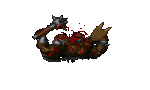
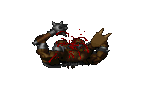
Corrected image sprite positioning, shadows are now center to entity position atribute

Changed region(s): [[0.2133, 0.1556, 0.7467, 0.7778], [0.56, 0.2667, 0.5867, 0.2889], [0.5067, 0.2444, 0.5333, 0.2667]]

diff --git a/entities/characters/ettin.py b/entities/characters/ettin.py
@@ -30,20 +30,21 @@ class Ettin(pygame.sprite.Sprite):
         #Pain assets
         self.character_pain_timer = 0
 
-        self.sprite_position = position
+        self.position = position
+        self.sprite_position = position[0], position[1]+12
         self.id = util.generate_entity_id()
 
         #Owned sprites
-        self.monster_collision_shadow= shadow.Shadow(self.sprite_position, self.id, SIZE_MEDIUM_SMALL, True)
-        self.melee_collision_shadow  = shadow.Shadow(self.sprite_position, self.id, SIZE_MEDIUM, False)
-        self.monster_melee_e_sector  = melee_range.Melee((self.sprite_position[0],self.sprite_position[1]-50), SECTOR_E)
-        self.monster_melee_ne_sector = melee_range.Melee(self.sprite_position, SECTOR_NE)
-        self.monster_melee_n_sector  = melee_range.Melee(self.sprite_position, SECTOR_N)
-        self.monster_melee_nw_sector = melee_range.Melee(self.sprite_position, SECTOR_NW)
-        self.monster_melee_w_sector  = melee_range.Melee(self.sprite_position, SECTOR_W)
-        self.monster_melee_sw_sector = melee_range.Melee(self.sprite_position, SECTOR_SW)
-        self.monster_melee_s_sector  = melee_range.Melee(self.sprite_position, SECTOR_S)
-        self.monster_melee_se_sector = melee_range.Melee(self.sprite_position, SECTOR_SE)
+        self.monster_collision_shadow= shadow.Shadow(self.position, self.id, SIZE_MEDIUM_SMALL, True)
+        self.melee_collision_shadow  = shadow.Shadow(self.position, self.id, SIZE_MEDIUM, False)
+        self.monster_melee_e_sector  = melee_range.Melee(self.position, SECTOR_E)
+        self.monster_melee_ne_sector = melee_range.Melee(self.position, SECTOR_NE)
+        self.monster_melee_n_sector  = melee_range.Melee(self.position, SECTOR_N)
+        self.monster_melee_nw_sector = melee_range.Melee(self.position, SECTOR_NW)
+        self.monster_melee_w_sector  = melee_range.Melee(self.position, SECTOR_W)
+        self.monster_melee_sw_sector = melee_range.Melee(self.position, SECTOR_SW)
+        self.monster_melee_s_sector  = melee_range.Melee(self.position, SECTOR_S)
+        self.monster_melee_se_sector = melee_range.Melee(self.position, SECTOR_SE)
         self.monster_melee_sprites = [self.monster_melee_e_sector,self.monster_melee_ne_sector,self.monster_melee_n_sector,self.monster_melee_nw_sector,self.monster_melee_w_sector,self.monster_melee_sw_sector,self.monster_melee_s_sector,self.monster_melee_se_sector]
         self.monster_auxilary_sprites = [self.monster_collision_shadow,self.melee_collision_shadow]
 
@@ -103,11 +104,12 @@ class Ettin(pygame.sprite.Sprite):
                 self.monster_ai.increment_direction_change_decision_timer()
             else:
                 self.facing_direction = self.monster_ai.player_direction_sector
-        self.sprite_position = self.sprite_position[0]-vector[0]+self.walk_speed_vector[0],self.sprite_position[1] - vector[1] +self.walk_speed_vector[1]
+        self.position = self.position[0]-vector[0]+self.walk_speed_vector[0],self.position[1] - vector[1] +self.walk_speed_vector[1]
         for auxilary_sprite in self.monster_auxilary_sprites:
-            auxilary_sprite.sprite_position = self.sprite_position[0], self.sprite_position[1]-3
+            auxilary_sprite.position = self.position
         for melee_sprite  in self.monster_melee_sprites:
-            melee_sprite.sprite_position = self.sprite_position[0], self.sprite_position[1]-12
+            melee_sprite.position = self.position
+        self.sprite_position = self.position[0], self.position[1]+12
         self.rect = self.image.get_rect(midbottom = (self.sprite_position))
     
     def set_facing_direction(self):
@@ -201,19 +203,19 @@ class Ettin(pygame.sprite.Sprite):
             if self.facing_direction == SECTOR_E:
                 self.walk_speed_vector = 1.4,0
             elif self.facing_direction == SECTOR_NE:
-                self.walk_speed_vector = 1,-1
+                self.walk_speed_vector = 0.99,-0.58
             elif self.facing_direction == SECTOR_N:
-                self.walk_speed_vector = 0,-1.4
+                self.walk_speed_vector = 0,-0.77
             elif self.facing_direction == SECTOR_NW:
-                self.walk_speed_vector = -1,-1
+                self.walk_speed_vector = -0.99,-0.58
             elif self.facing_direction == SECTOR_W:
                 self.walk_speed_vector = -1.4,0
             elif self.facing_direction == SECTOR_SW:
-                self.walk_speed_vector = -1,1
+                self.walk_speed_vector = -0.99,0.58
             elif self.facing_direction == SECTOR_S:
-                self.walk_speed_vector = 0,1.4
+                self.walk_speed_vector = 0,0.77
             elif self.facing_direction == SECTOR_SE:
-                self.walk_speed_vector = 1,1
+                self.walk_speed_vector = 0.99,0.58
             
     #Combat functions
     def take_damage(self, damage):

diff --git a/main.py b/main.py
@@ -11,45 +11,54 @@ clock = pygame.time.Clock()
 entity_manager.generate_monsters()
 
 def get_player_wsad_input(keys):
-    if keys[pygame.K_s] and game_manager.acceleration_vector[Y] < 30:
+    if keys[pygame.K_s] and game_manager.acceleration_vector[Y] < 30.0:
         game_manager.acceleration_vector = game_manager.acceleration_vector[X],game_manager.acceleration_vector[Y]+1
 
     if not keys[pygame.K_s] and game_manager.acceleration_vector[Y] > 0:
         game_manager.acceleration_vector = game_manager.acceleration_vector[X],0
     
-    if keys[pygame.K_w] and game_manager.acceleration_vector[Y] > -30:
+    if keys[pygame.K_w] and game_manager.acceleration_vector[Y] > -30.0:
         game_manager.acceleration_vector = game_manager.acceleration_vector[X],game_manager.acceleration_vector[Y]-1
 
     if not keys[pygame.K_w] and game_manager.acceleration_vector[Y] < 0:
         game_manager.acceleration_vector = game_manager.acceleration_vector[X],0
 
-    if keys[pygame.K_a] and game_manager.acceleration_vector[X] > -30:
+    if keys[pygame.K_a] and game_manager.acceleration_vector[X] > -30.0:
         game_manager.acceleration_vector = game_manager.acceleration_vector[X]-1,game_manager.acceleration_vector[1]
 
     if not keys[pygame.K_a] and game_manager.acceleration_vector[X] < 0:
         game_manager.acceleration_vector = 0,game_manager.acceleration_vector[Y]
     
-    if keys[pygame.K_d] and game_manager.acceleration_vector[X] < 30:
+    if keys[pygame.K_d] and game_manager.acceleration_vector[X] < 30.0:
         game_manager.acceleration_vector = game_manager.acceleration_vector[X]+1,game_manager.acceleration_vector[Y]
 
     if not keys[pygame.K_d] and game_manager.acceleration_vector[X] > 0:
         game_manager.acceleration_vector = 0,game_manager.acceleration_vector[Y]
 
-    if game_manager.acceleration_vector[X] > 21 and game_manager.acceleration_vector[Y] > 21:
-        game_manager.acceleration_vector = 21,21
-    elif game_manager.acceleration_vector[X] > 21 and game_manager.acceleration_vector[Y] < -21:
-        game_manager.acceleration_vector = 21,-21
-    elif game_manager.acceleration_vector[X] < -21 and game_manager.acceleration_vector[Y] > 21:
-        game_manager.acceleration_vector = -21,21
-    elif game_manager.acceleration_vector[X] < -21 and game_manager.acceleration_vector[Y] < -21:
-        game_manager.acceleration_vector = -21,-21
+    if game_manager.acceleration_vector[X] > 21.2 and game_manager.acceleration_vector[Y] > 22.54:
+        game_manager.acceleration_vector = 21.2,22.54
+    elif game_manager.acceleration_vector[X] > 21.2 and game_manager.acceleration_vector[Y] < -22.54:
+        game_manager.acceleration_vector = 21.2,-22.54
+    elif game_manager.acceleration_vector[X] < -21.2 and game_manager.acceleration_vector[Y] > 22.54:
+        game_manager.acceleration_vector = -21.2,22.54
+    elif game_manager.acceleration_vector[X] < -21.2 and game_manager.acceleration_vector[Y] < -22.54:
+        game_manager.acceleration_vector = -21.2,-22.54
 
-    game_manager.speed_vector = game_manager.acceleration_vector[X]/10, game_manager.acceleration_vector[Y]/10
+    if game_manager.acceleration_vector[X] > 30.0:
+        game_manager.acceleration_vector = 30.0, game_manager.acceleration_vector[Y]
+    elif game_manager.acceleration_vector[X] < -30.0:
+        game_manager.acceleration_vector = -30.0, game_manager.acceleration_vector[Y]
+    if game_manager.acceleration_vector[Y] > 30.0:
+        game_manager.acceleration_vector = game_manager.acceleration_vector[X], 30.0
+    elif game_manager.acceleration_vector[Y] < -30.0:
+        game_manager.acceleration_vector = game_manager.acceleration_vector[X], -30.0
+
+    game_manager.speed_vector = (game_manager.acceleration_vector[X]/30)*game_manager.player_speed, (game_manager.acceleration_vector[Y]/30)*game_manager.player_speed*0.55
 
 def order_sprites():
     for _ in range(len(entity_manager.all_entities)-1):
         for j in range(len(entity_manager.all_entities)-1):
-            if entity_manager.all_entities[j].sprites()[0].sprite_position[Y] > entity_manager.all_entities[j+1].sprites()[0].sprite_position[Y]:
+            if entity_manager.all_entities[j].sprites()[0].position[Y] > entity_manager.all_entities[j+1].sprites()[0].position[Y]:
                     entity_manager.all_entities[j], entity_manager.all_entities[j+1] = entity_manager.all_entities[j+1], entity_manager.all_entities[j]
 
 def collision_detection():

diff --git a/utilities/monster_ai.py b/utilities/monster_ai.py
@@ -69,7 +69,7 @@ class Ai():
             if decision == 0:
                 self.owning_monster.facing_direction = random.choice(SECTORS)
             else:
-                self.owning_monster.facing_direction = util.get_facing_direction(self.owning_monster.sprite_position,PLAYER_POSITION)
+                self.owning_monster.facing_direction = util.get_facing_direction(self.owning_monster.position,PLAYER_POSITION)
         
         elif self.avoiding_obstacle == True and self.avoidance_direction_sector == None:
             self.change_to_parallel_direction()
@@ -79,16 +79,16 @@ class Ai():
             self.diagonal_avoidance = True
 
         elif self.final_approach == False:
-            self.owning_monster.facing_direction = util.get_facing_direction(self.owning_monster.sprite_position,PLAYER_POSITION)
+            self.owning_monster.facing_direction = util.get_facing_direction(self.owning_monster.position,PLAYER_POSITION)
             self.final_approach = True
         else:
             self.finish_avoiding_obstacle()
 
     def change_to_parallel_direction(self):
             if self.obstacle_sector == SECTOR_N or self.obstacle_sector == SECTOR_S:
-                self.set_avoidance_direction_sector(self.owning_monster.sprite_position, HORIZONTAL)
+                self.set_avoidance_direction_sector(self.owning_monster.position, HORIZONTAL)
             else:
-                self.set_avoidance_direction_sector(self.owning_monster.sprite_position, VERTICAL)
+                self.set_avoidance_direction_sector(self.owning_monster.position, VERTICAL)
             self.owning_monster.facing_direction = self.avoidance_direction_sector
             self.direction_change_decision_timer_limit = 6
 
@@ -120,7 +120,7 @@ class Ai():
     #Combat decisions
     def monster_can_melee_attack_player(self):
         if unique_player_objects.HERO.living == True:
-            self.player_direction_sector = util.get_facing_direction(self.owning_monster.sprite_position,PLAYER_POSITION)
+            self.player_direction_sector = util.get_facing_direction(self.owning_monster.position,PLAYER_POSITION)
             for melee_sprite in self.owning_monster.monster_melee_sprites:
                 if pygame.sprite.collide_mask(melee_sprite, unique_player_objects.PLAYER_SHADOW_SPRITE):
                     return True

diff --git a/entities/characters/unique_player_objects.py b/entities/characters/unique_player_objects.py
@@ -4,15 +4,15 @@ from entities import shadow
 from entities.characters import player
 from utilities.constants import *
 
-PLAYER_MELEE_SPRITE_E  = melee_range.Melee((PLAYER_POSITION[0],PLAYER_POSITION[1]+3), SECTOR_E)
-PLAYER_MELEE_SPRITE_NE = melee_range.Melee((PLAYER_POSITION[0],PLAYER_POSITION[1]+3), SECTOR_NE)
-PLAYER_MELEE_SPRITE_N  = melee_range.Melee((PLAYER_POSITION[0],PLAYER_POSITION[1]+3), SECTOR_N)
-PLAYER_MELEE_SPRITE_NW = melee_range.Melee((PLAYER_POSITION[0],PLAYER_POSITION[1]+3), SECTOR_NW)
-PLAYER_MELEE_SPRITE_W  = melee_range.Melee((PLAYER_POSITION[0],PLAYER_POSITION[1]+3), SECTOR_W)
-PLAYER_MELEE_SPRITE_SW = melee_range.Melee((PLAYER_POSITION[0],PLAYER_POSITION[1]+3), SECTOR_SW)
-PLAYER_MELEE_SPRITE_S  = melee_range.Melee((PLAYER_POSITION[0],PLAYER_POSITION[1]+3), SECTOR_S)
-PLAYER_MELEE_SPRITE_SE = melee_range.Melee((PLAYER_POSITION[0],PLAYER_POSITION[1]+3), SECTOR_SE)
-PLAYER_SHADOW_SPRITE   = shadow.Shadow((PLAYER_POSITION[0],PLAYER_POSITION[1]+3), PLAYER_SHADOW_ID, SIZE_SMALL, True)
+PLAYER_MELEE_SPRITE_E  = melee_range.Melee(PLAYER_POSITION, SECTOR_E)
+PLAYER_MELEE_SPRITE_NE = melee_range.Melee(PLAYER_POSITION, SECTOR_NE)
+PLAYER_MELEE_SPRITE_N  = melee_range.Melee(PLAYER_POSITION, SECTOR_N)
+PLAYER_MELEE_SPRITE_NW = melee_range.Melee(PLAYER_POSITION, SECTOR_NW)
+PLAYER_MELEE_SPRITE_W  = melee_range.Melee(PLAYER_POSITION, SECTOR_W)
+PLAYER_MELEE_SPRITE_SW = melee_range.Melee(PLAYER_POSITION, SECTOR_SW)
+PLAYER_MELEE_SPRITE_S  = melee_range.Melee(PLAYER_POSITION, SECTOR_S)
+PLAYER_MELEE_SPRITE_SE = melee_range.Melee(PLAYER_POSITION, SECTOR_SE)
+PLAYER_SHADOW_SPRITE   = shadow.Shadow(PLAYER_POSITION, PLAYER_SHADOW_ID, SIZE_SMALL, True)
 
 PLAYER_MELEE_SPRITES = [PLAYER_MELEE_SPRITE_E,PLAYER_MELEE_SPRITE_NE,PLAYER_MELEE_SPRITE_N,PLAYER_MELEE_SPRITE_NW,PLAYER_MELEE_SPRITE_W,PLAYER_MELEE_SPRITE_SW,PLAYER_MELEE_SPRITE_S,PLAYER_MELEE_SPRITE_SE]
 

diff --git a/entities/shadow.py b/entities/shadow.py
@@ -8,30 +8,19 @@ class Shadow(pygame.sprite.Sprite):
 
         self.visible = visible
         self.shadow_size = size
-        self.sprite_position = position
+        self.position = position
         self.id = id
 
         self.image = self.get_self_image()
-        self.rect = self.image.get_rect(midbottom = (self.sprite_position))
+        self.rect = self.image.get_rect(center = (self.position))
         self.mask = self.get_self_mask()
 
     #Update functions    
     def update(self):
-        if self.shadow_size == constants.SIZE_SMALL:
-            self.rect = self.image.get_rect(midbottom = (self.sprite_position))
-        elif self.shadow_size == constants.SIZE_MEDIUM_SMALL:
-            medium_shadow_sprite_position = self.get_shadow_position()
-            self.rect = self.image.get_rect(midbottom = (medium_shadow_sprite_position))
-        elif self.shadow_size == constants.SIZE_MEDIUM:
-            medium_shadow_sprite_position = self.get_shadow_position()
-            self.rect = self.image.get_rect(midbottom = (medium_shadow_sprite_position))
+        self.rect = self.image.get_rect(center = (self.position))
 
     def update_position(self, vector):
-        self.sprite_position = self.sprite_position[0] - vector[0], self.sprite_position[1] - vector[1]
-
-    def get_shadow_position(self):
-        medium_shadow_sprite_position = self.sprite_position[0], self.sprite_position[1]+7
-        return medium_shadow_sprite_position
+        self.position = self.position[0] - vector[0], self.position[1] - vector[1]
 
     #Misc
     def get_self_image(self):

diff --git a/utilities/util.py b/utilities/util.py
@@ -1,6 +1,6 @@
 import numpy as np
 import math
-from utilities import constants
+from utilities.constants import *
 from utilities import entity_manager
 from settings import *
 
@@ -64,21 +64,21 @@ def get_total_angle(current_entity_pos,other_entity_pos):
 def get_facing_direction(current_entity_pos,other_entity_pos):
     angle = get_total_angle(current_entity_pos,other_entity_pos)
     if angle >= 346.5 or angle < 13.5:
-        return constants.SECTOR_E
+        return SECTOR_E
     elif angle >= 13.5 and angle < 55:
-        return constants.SECTOR_NE
+        return SECTOR_NE
     elif angle >= 55 and angle < 125:
-        return constants.SECTOR_N
+        return SECTOR_N
     elif angle >= 125 and angle < 166.5:
-        return constants.SECTOR_NW
+        return SECTOR_NW
     elif angle >= 166.5 and angle < 193.5:
-        return constants.SECTOR_W
+        return SECTOR_W
     elif angle >= 193.5 and angle < 235:
-        return constants.SECTOR_SW
+        return SECTOR_SW
     elif angle >= 235 and angle < 305:
-        return constants.SECTOR_S
+        return SECTOR_S
     elif angle >= 305 and angle < 346.5:
-        return constants.SECTOR_SE
+        return SECTOR_SE
 
 def generate_entity_id():
     if len(entity_manager.entities_id) == 0:

diff --git a/entities/characters/player.py b/entities/characters/player.py
@@ -25,7 +25,8 @@ class Hero(pygame.sprite.Sprite):
         #Pain assets
         self.character_pain_timer = 0
 
-        self.sprite_position = position
+        self.position = position
+        self.sprite_position = self.position[0], self.position[1]+8
 
         #Initial image definition
         self.image = self.character_walk[self.character_walk_index[0]][self.character_walk_index[1]]
@@ -41,6 +42,7 @@ class Hero(pygame.sprite.Sprite):
 
     #Update functions
     def update(self):
+        self.rect = self.image.get_rect(midbottom = (self.sprite_position))
         self.set_facing_direction()
        
         if self.living:
@@ -54,7 +56,7 @@ class Hero(pygame.sprite.Sprite):
 
     def set_facing_direction(self):
         mouse_pos = pygame.mouse.get_pos()
-        self.facing_direction = util.get_facing_direction((PLAYER_POSITION[0],PLAYER_POSITION[1]-10),mouse_pos)
+        self.facing_direction = util.get_facing_direction(PLAYER_POSITION,mouse_pos)
         self.set_character_animation_direction_indices()
         self.image = self.character_walk[self.character_walk_index[0]][int(self.character_walk_index[1])]
     

diff --git a/entities/melee_range.py b/entities/melee_range.py
@@ -15,7 +15,7 @@ class Melee(pygame.sprite.Sprite):
 
     #Update functions
     def update(self):
-        self.rect = self.image.get_rect(center = (self.sprite_position))
+        self.rect = self.image.get_rect(center = (self.position))
 
     def update_position(self, vector):
         self.sprite_position = self.sprite_position[0] - vector[0], self.sprite_position[1] - vector[1]

diff --git a/utilities/game_manager.py b/utilities/game_manager.py
@@ -5,6 +5,7 @@ from utilities.constants import SECTOR_N
 
 acceleration_vector = 0,0
 speed_vector = 0,0
+player_speed = 3
 
 def player_movement_collision():
     for movement_collision_sprite in entity_manager.movement_collision_sprites:

diff --git a/utilities/constants.py b/utilities/constants.py
@@ -42,3 +42,5 @@ SECTORS = [SECTOR_N,SECTOR_S,SECTOR_E,SECTOR_W,SECTOR_NW,SECTOR_NE,SECTOR_SW,SEC
 
 HORIZONTAL = "horizontal"
 VERTICAL = "vertical"
+
+player_speed = 3
